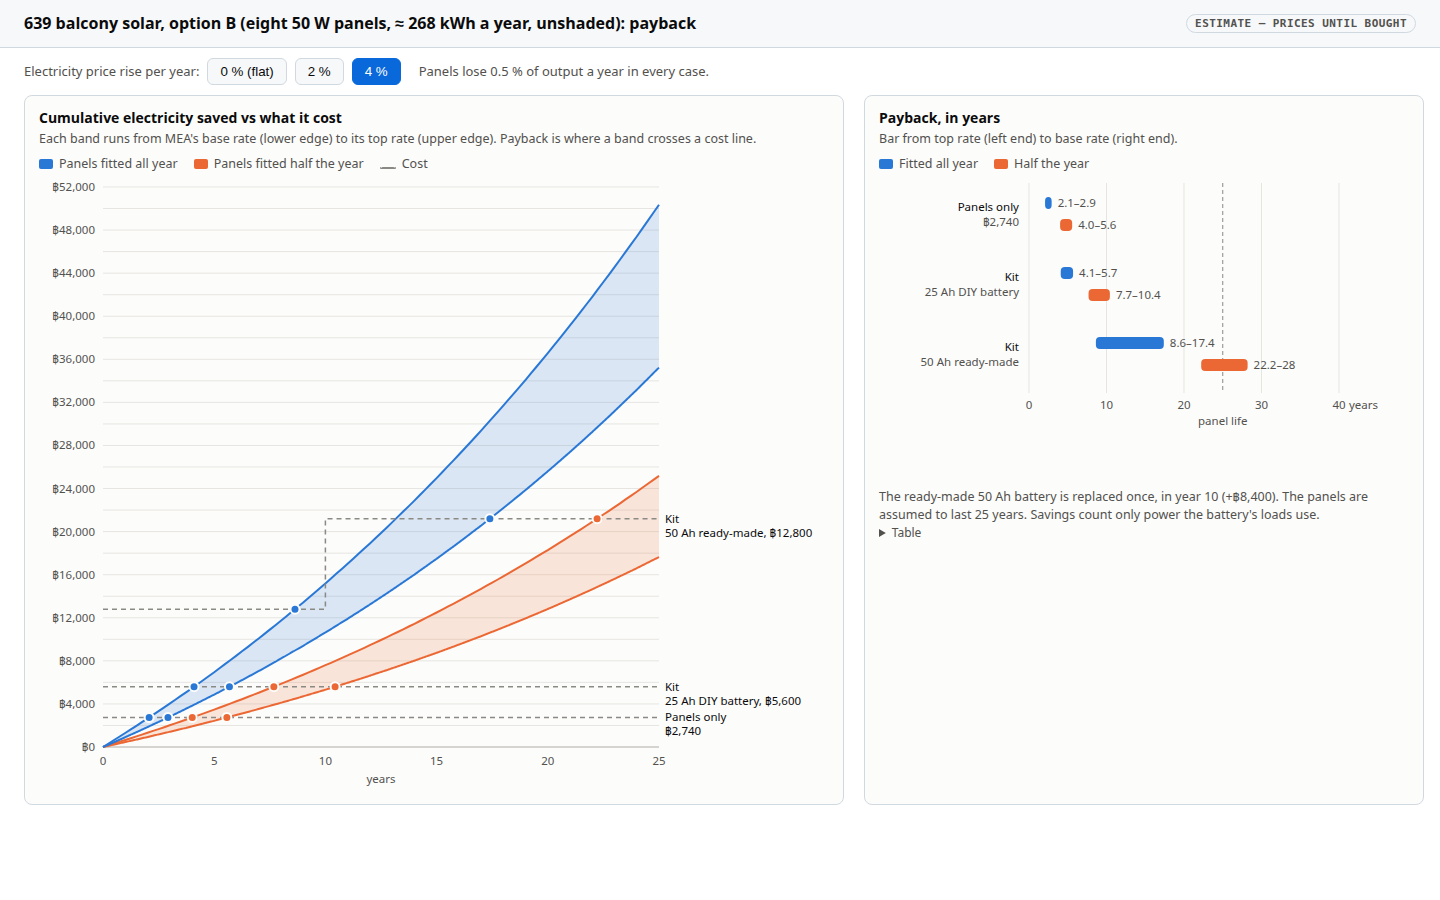
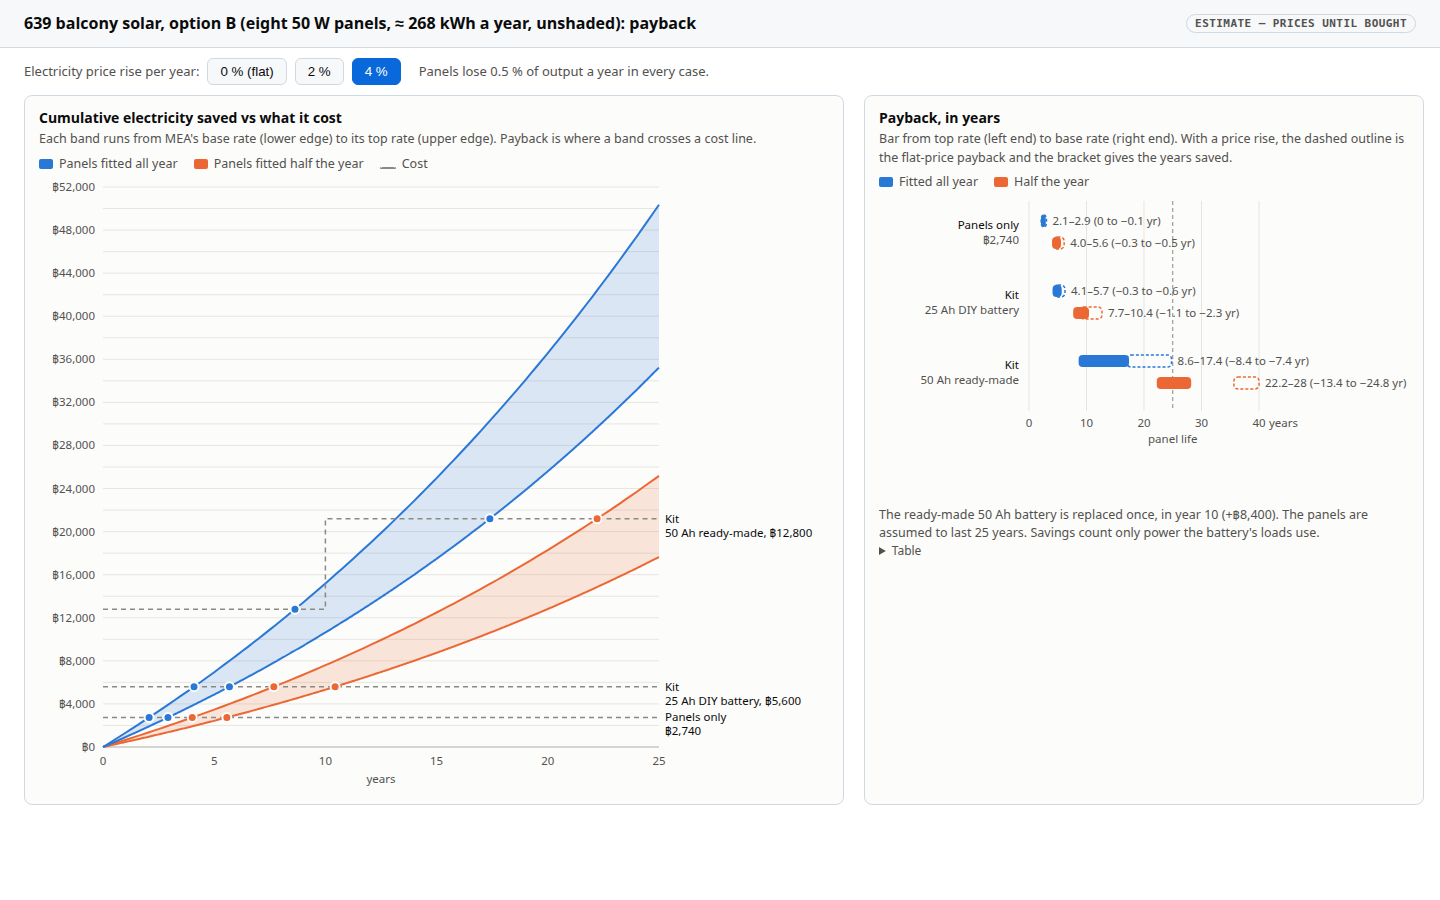
Balcony solar payback chart: show the years saved by a price rise
Each payback bar keeps a dashed outline of its flat-price payback and a
label with the years saved; the payback horizon extends to 60 years.

Claude-Session: https://claude.ai/code/session_01YEenqRTjYzU5APTKovfevg

Changed region(s): [[0.5938, 0.1244, 0.9688, 0.4978], [0.5938, 0.5289, 0.9375, 0.6222], [0.875, 0.1244, 0.9688, 0.1556]]

diff --git a/docs/plans/2026-11-11-condo-639-balcony-solar-research/payback.html b/docs/plans/2026-11-11-condo-639-balcony-solar-research/payback.html
@@ -56,7 +56,7 @@
   </div>
   <div class="card" id="c2">
     <h2>Payback, in years</h2>
-    <p class="sub">Bar from top rate (left end) to base rate (right end).</p>
+    <p class="sub">Bar from top rate (left end) to base rate (right end). With a price rise, the dashed outline is the flat-price payback and the bracket gives the years saved.</p>
     <div class="legend"><span><i style="background:var(--series-1)"></i>Fitted all year</span><span><i style="background:var(--series-2)"></i>Half the year</span></div>
     <svg id="s2" width="530" height="300"></svg>
     <div class="tip" id="t2"></div>
@@ -76,7 +76,7 @@ const COSTS=[
 const costAt=(o,n)=>o.c+(o.repl && n>o.repl[0] ? o.repl[1] : 0);
 const cum=(a,e,n)=>{let s=0; for(let k=1;k<=n;k++) s+=a*((1+e)*(1-D))**(k-1); return s;};
 const cumF=(a,e,t)=>{const n=Math.floor(t); return cum(a,e,n)+(t-n)*a*((1+e)*(1-D))**n;};
-function payback(o,a,e){ for(let n=1;n<=40;n++){ const s=cum(a,e,n), c=costAt(o,n); if(s>=c){ const p=cum(a,e,n-1); return n-1+(c-p)/(s-p);} } return Infinity; }
+function payback(o,a,e){ for(let n=1;n<=60;n++){ const s=cum(a,e,n), c=costAt(o,n); if(s>=c){ const p=cum(a,e,n-1); return n-1+(c-p)/(s-p);} } return Infinity; }
 const fmt=n=>'฿'+Math.round(n).toLocaleString('en-US');
 const fy=v=>!isFinite(v)?'40+':v>YRS?v.toFixed(0):v.toFixed(1);
 let E=0;
@@ -112,7 +112,7 @@ function draw(){
     tip.innerHTML=`<b>Year ${t}</b><br>All year: ${fmt(cum(RATES.all[0],E,t))} – ${fmt(cum(RATES.all[1],E,t))}<br>Half year: ${fmt(cum(RATES.half[0],E,t))} – ${fmt(cum(RATES.half[1],E,t))}`; };
   s1.querySelector('#hit').onmouseleave=()=>{ tip.style.display='none'; xh.setAttribute('visibility','hidden'); };
   // ---- chart 2: payback range bars
-  const s2=document.getElementById('s2'), W2=530, L2=150, R2=70, T2=6, rowH=70, XM=40, pw2=W2-L2-R2;
+  const s2=document.getElementById('s2'), W2=530, L2=150, R2=150, T2=6, rowH=70, XM=40, pw2=W2-L2-R2;
   const X2=v=>L2+Math.min(v,XM)/XM*pw2; let h='';
   for(let v=0;v<=XM;v+=10){ h+=`<line x1="${X2(v)}" x2="${X2(v)}" y1="${T2}" y2="${T2+rowH*3}" stroke="var(--grid)"/><text x="${X2(v)}" y="${T2+rowH*3+16}" text-anchor="middle">${v}</text>`; }
   h+=`<line x1="${X2(25)}" x2="${X2(25)}" y1="${T2}" y2="${T2+rowH*3}" stroke="var(--ref)" stroke-dasharray="4 3"/><text x="${X2(25)}" y="${T2+rowH*3+32}" text-anchor="middle">panel life</text>`;
@@ -120,8 +120,12 @@ function draw(){
   COSTS.forEach((o,i)=>{ const y0=T2+i*rowH; h+=`<text x="${L2-10}" y="${y0+28}" text-anchor="end" style="fill:var(--text-primary)">${o.label.split(', ')[0]}</text><text x="${L2-10}" y="${y0+43}" text-anchor="end">${o.label.split(', ')[1]}</text>`;
     const cell=[];
     [['all','--series-1',14],['half','--series-2',36]].forEach(([key,ser,dy])=>{ const a=payback(o,RATES[key][1],E), b=payback(o,RATES[key][0],E); const x1=X2(a), x2=X2(b);
+      const a0=payback(o,RATES[key][1],0), b0=payback(o,RATES[key][0],0);
+      if(E>0) h+=`<rect x="${X2(a0)}" y="${y0+dy}" width="${Math.max(4,X2(b0)-X2(a0))}" height="12" rx="4" fill="none" stroke="var(${ser})" stroke-width="1.5" stroke-dasharray="3 2"><title>at a flat price: ${fy(a0)}–${fy(b0)} years</title></rect>`;
       h+=`<rect x="${x1}" y="${y0+dy}" width="${Math.max(4,x2-x1)}" height="12" rx="4" fill="var(${ser})"><title>${o.label}, fitted ${key==='all'?'all year':'half the year'}: ${fy(a)}–${fy(b)} years</title></rect>`;
-      h+=`<text x="${Math.min(x2,X2(XM))+6}" y="${y0+dy+10}">${fy(a)}–${fy(b)}</text>`; cell.push(`${fy(a)}–${fy(b)}`); });
+      const da=isFinite(a0)&&isFinite(a)?a0-a:0, db=isFinite(b0)&&isFinite(b)?b0-b:0;
+      const fd=v=>v<0.05?'0':'−'+v.toFixed(1); const dl = E>0 && (da>0.05||db>0.05) ? ` (${fd(da)} to ${fd(db)} yr)` : '';
+      h+=`<text x="${Math.min(Math.max(x2, E>0?X2(b0):x2),X2(XM))+6}" y="${y0+dy+10}">${fy(a)}–${fy(b)}${dl}</text>`; cell.push(`${fy(a)}–${fy(b)}${dl}`); });
     rows+=`<tr><td>${o.label}</td><td>${cell[0]}</td><td>${cell[1]}</td></tr>`; });
   h+=`<text x="${X2(XM)+10}" y="${T2+rowH*3+16}">years</text>`;
   s2.innerHTML=h; document.getElementById('tbl').innerHTML=rows;

diff --git a/docs/plans/.history/2026-11-11-condo-639-balcony-solar-research.md b/docs/plans/.history/2026-11-11-condo-639-balcony-solar-research.md
@@ -1,9 +1,15 @@
 | Date | Change |
 |------|--------|
+| [2026-11-11](https://github.com/wbniv/WorldFoundry/commit/be05fad1) | Balcony solar research: turning the inserts 6 degrees instead of tilting |
 | [2026-11-11](https://github.com/wbniv/WorldFoundry/commit/e51a74d5) | Balcony solar: the ledge runs inward, so no shade; test a tilted 10 cm frame |
 | [2026-11-11](https://github.com/wbniv/WorldFoundry/commit/c24de9c3) | Balcony screen frame: v3 shop sheet; split solar research and v1/v2 archive |
 
 <!--history-meta v1
+be05fad1	author	Will Norris
+be05fad1	added	3
+be05fad1	deleted	1
+be05fad1	files	1
+be05fad1	body	PVGIS: +2.5 % facing 6 degrees toward the south, -3.2 % toward the north,\nbefore sawtooth self-shading and the loss of sealed joints.\n\nCo-Authored-By: Claude Opus 5.5 <noreply@anthropic.com>\nClaude-Session: https://claude.ai/code/session_01YEenqRTjYzU5APTKovfevg
 e51a74d5	author	Will Norris
 e51a74d5	added	51
 e51a74d5	deleted	27

diff --git a/docs/plans/2026-11-11-condo-639-balcony-solar-research.md b/docs/plans/2026-11-11-condo-639-balcony-solar-research.md
@@ -78,6 +78,8 @@ With a small DIY battery, the kit pays back in about 5 years if the panels stay 
 
 [![The same charts with the electricity price rising 4 % a year](2026-11-11-condo-639-balcony-solar-research/payback-4pct.png)](2026-11-11-condo-639-balcony-solar-research/payback.html#0.04)
 
+With a price rise selected, each payback bar keeps a dashed outline of its flat-price payback and is labelled with the years saved: at 4 % a year, a few months for the panels alone and the DIY kit, and 7–25 years for the kit with a ready-made battery.
+
 ## Variation: a 10 cm frame with the solar inserts tilted
 
 **Idea** (Will, 2026‑11‑11): make the frame 10 cm deep, the full width of the pony-wall cap, and let the solar inserts lean within that depth, top inward, so the panels face a little more toward the sky. The pet screens stay vertical at the outer stop.
